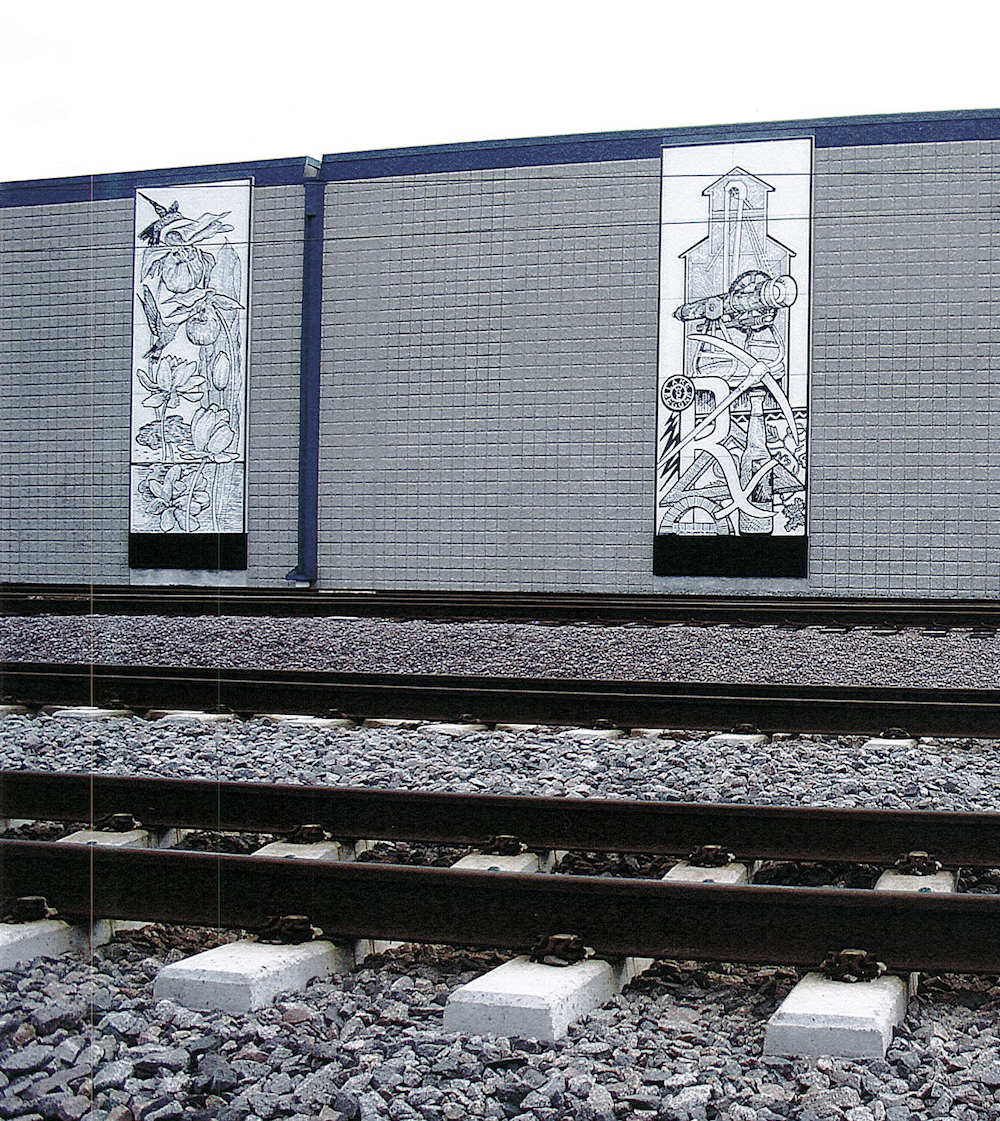
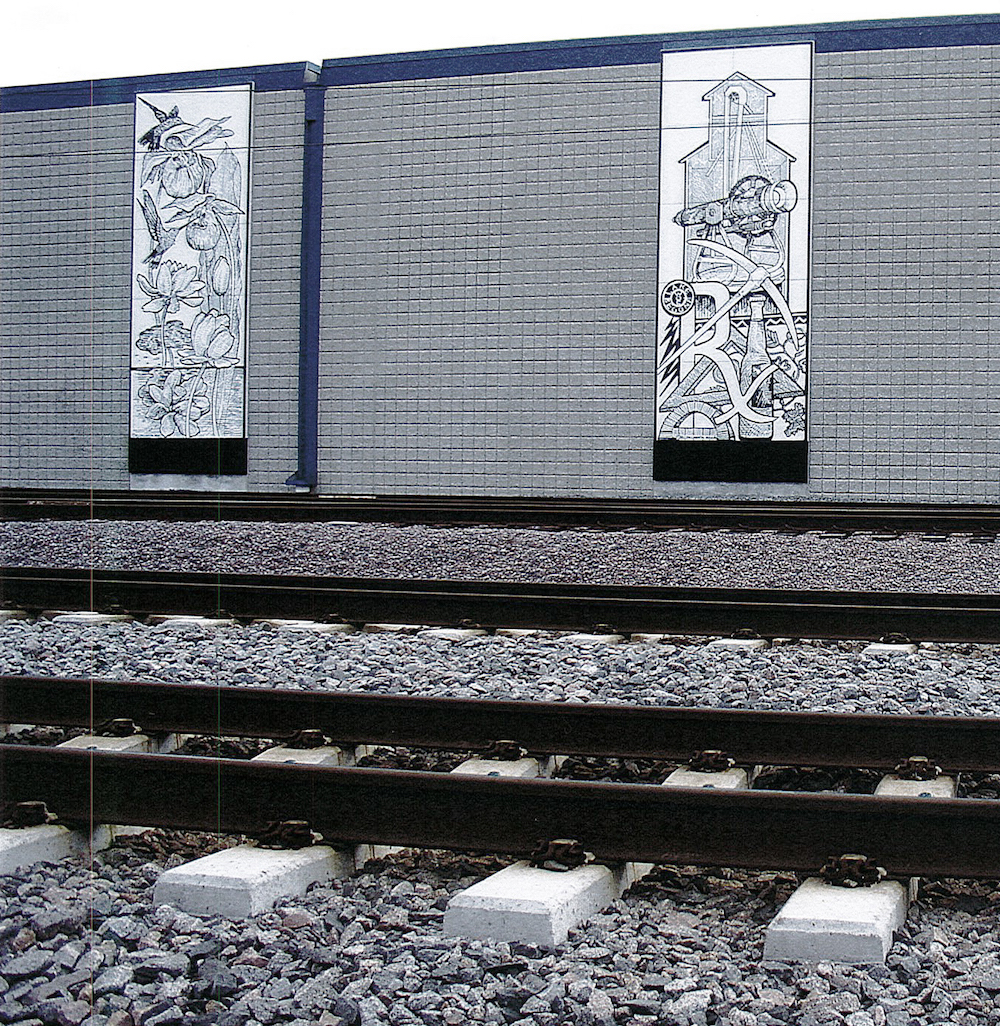
Public art upates

diff --git a/src/station-public-art.html b/src/station-public-art.html
@@ -233,15 +233,16 @@ continue to improve the accessibility of our website.</a>
 
                                                     <!-- START OF FRONT END CONTENT -->
                                                     <div style="margin-left:230px;">
-                                                        <h2>Lake Street Station – Public Art - Verburg</h2>
+                                                        <h1>Franklin Operations and Maintenance Facility Public Art</h1>
+                                                        <p><strong>Title:</strong> <em>Eight Places; Eight Panels</em></p>
 
-                                                        <p><strong>Title:</strong> <i>Wonder</i></p>
+                                                        <p><strong>Artist:</strong> Ellen Lanyon</p>
 
-                                                        <p><strong>Artist:</strong> JoAnn Verburg</p>
+                                                        <p><strong>Material: </strong>Enamaled steel and magnesium and stainless-steel hardware</p>
 
-                                                        <p><strong>Material:</strong> Colored glass panels and letter shaped mirrors</p>
+                                                        <p>Eight large Minnesota images on 8 enamaled steel panels (22' x 8' each). Each image is made of six 8' x 4' panels stacked on their horizontals. Artwork is most often seen by riders of the Blue Line between Cedar-Riverside and Franklin Stations.</p>
 
-                                                        <p>Panels of colored glass checker the enclosed structures that lead to the platform. This includes the elevator shafts, the escalator walls and the platform wind screens. In the north tower lobby, some colored panels having letters made of mirror material spelling the word "wonder."</p>
+                                                        <p>&nbsp;</p>
 
                                                         <div class="mojo-tabs">
                                                         <ul>
@@ -252,80 +253,133 @@ continue to improve the accessibility of our website.</a>
                                                         </ul>
 
                                                         <div id="tab1">
-                                                            <p><img alt="Lake Street Station Art" class="img-responsive" src="/Data/Sites/1/media/lightrail/bluelinestations/public-art/blue_line_public_art_lake_st_01.jpg" /></p>
-                                                            <p><img alt="Lake Street Station Art" class="img-responsive" src="/Data/Sites/1/media/lightrail/bluelinestations/public-art/blue_line_public_art_lake_st_03.jpg" /></p>
+                                                            <p><img alt="Franklin Operations and Maintenance Facility Public Art" class="img-responsive" src="/Data/Sites/1/media/facilities/public_art/fac_public_blue_line_o_and_m_industry.jpg" /></p>
 
-                                                            <div class="row">
-                                                                <div class="col-md-3">
-                                                                    <p><img alt="" class="img-responsive" src="/Data/Sites/1/media/lightrail/bluelinestations/public-art/blue-line-art-lake-street-wonder-1-w-sm.jpg" /></p>
-                                                                </div>
-                                                                <div class="col-md-3">
-                                                                    <p><img alt="Image of public art at the Lake Street / Midtown Station on the METRO Blue Line. " class="img-responsive" src="/Data/Sites/1/media/lightrail/bluelinestations/public-art/blue-line-art-lake-street-wonder-2-o-sm.jpg" /></p>
-                                                                </div>
+                                                            <p><img alt="Franklin Operations and Maintenance Facility Public Art" class="img-responsive" src="/Data/Sites/1/media/facilities/public_art/fac_public_blue_line_o_and_m_closeup.jpg" /></p>
 
-                                                                <div class="col-md-3">
-                                                                    <p><img alt="Image of public art at the Lake Street / Midtown Station on the METRO Blue Line. " class="img-responsive" src="/Data/Sites/1/media/lightrail/bluelinestations/public-art/blue-line-art-lake-street-wonder-3-n-sm.jpg" /></p>
-                                                                </div>
-                                                                <div class="col-md-3">
-                                                                    <p><img alt="Image of public art at the Lake Street / Midtown Station on the METRO Blue Line. " class="img-responsive" src="/Data/Sites/1/media/lightrail/bluelinestations/public-art/blue-line-art-lake-street-wonder-4-d-sm.jpg" /></p>
-                                                                </div>
-                                                            </div>
+                                                            <p><img alt="Franklin Operations and Maintenance Facility Public Art" class="img-responsive" src="/Data/Sites/1/media/facilities/public_art/fac_public_blue_line_o_and_m_panorama.jpg" /></p>
 
-                                                            <div class="row">
-                                                                <div class="col-md-6">
-                                                                    <p><img alt="Image of public art at the Lake Street / Midtown Station on the METRO Blue Line. " class="img-responsive" src="/Data/Sites/1/media/lightrail/bluelinestations/public-art/blue-line-art-lake-street-wonder-5-e-sm.jpg" /></p>
-                                                                </div>
-
-                                                                <div class="col-md-6">
-                                                                    <p><img alt="Image of public art at the Lake Street / Midtown Station on the METRO Blue Line." class="img-responsive" src="/Data/Sites/1/media/lightrail/bluelinestations/public-art/blue-line-art-lake-street-wonder-6-r-sm.jpg" /></p>
-                                                                </div>
-                                                            </div>
+                                                            <p><img alt="Franklin Operations and Maintenance Facility Public Art" class="img-responsive" src="/Data/Sites/1/media/facilities/public_art/fac_public_blue_line_o_and_m_woodpecker.jpg" /></p>
                                                         </div>
 
                                                         <div id="tab2">
-                                                            <p>Lake Street is a crossroads for many cultures that have come to Minnesota. The cool colored (blues and purples) glass panels of the north tower represent the cultures that have come from the cool northern climates. The warm colored (yellows, ambers and oranges) glass panels of the south tower represent the cultures from the warm equatorial areas and southern hemisphere. The word WONDER is present in mirror glass letters in the lower lobby of the north tower. The word WONDER is meant to be a command as well as noun. A viewer will notice that the N in WONDER is on the north wall of the tower, and like-wise, the E is on the east wall, and the W is on the west wall. Mirrored letters spelling Wonder also reference the memories of the Wonderland Amusement Park which was located nearby. &nbsp;</p>
+                                                            <p>The eight panels of this public art piece depict different aspects of Minnesota</p>
 
-                                                            <p><img alt="Lake Street Station Art" class="img-responsive" src="/Data/Sites/1/media/lightrail/bluelinestations/public-art/blue_line_public_art_lake_st_02.jpg" /></p>
-                                                        </div>
+                                                            <p>INDUSTRY: the flour mills and granaries, the medical community, the brewery, mining, textiles and builders.</p>
 
-                                                        <div id="tab3">
-                                                            <p>JoAnn Verburg&nbsp;is an American photographer who uses large format cameras to shoot life-size portraits, still lifes and landscapes. Verburg’s images create narrative sequences that generate a state of prolonged experience; not a state of motion, but, rather, how we view images, as in mirroring the eye’s movement during the act of looking. &nbsp;</p>
+                                                            <p>ARTS: Theater, dance, visual arts, architecture, music, literature, etc.</p>
 
-                                                            <p>She made a name for herself in the late 1970s with “The Rephotographic Survey Project,” a collaborative exhibition and book that recreated more than 120 images of largely uninhabited Western landscapes in the 19th century.&nbsp;Using cameras, lenses and film that approximated the technology of their 19th-century predecessors, they waited for weather conditions that replicated the light in the original photographs, then rephotographed each place. The resulting then-and-now comparisons showed what the passage of time had done to those vistas. Surprisingly, what endured — the same trees, boulders and riverbeds — was often just as poignant as the changes to the landscape over time.</p>
+                                                            <p>LADY SLIPPER:&nbsp; the state flower.</p>
 
-                                                            <p>Verburg studied at&nbsp;Ohio Wesleyan University, earning her Bachelor’s of Arts in Sociology. She earned her Masters of Fine Art in Photography from the Rochester Institute of Photography, New York. Verburg moved to Minnesota in 1981 where she was an artist-in-residence at the&nbsp;Minneapolis College of Art and Design. She splits her time between&nbsp;St. Paul, Minnesota&nbsp;and&nbsp;Spoleto, Italy.</p>
+                                                            <p>WALLEYE: The state fish.</p>
+
+                                                            <p>COMMON LOON: The state bird.</p>
+
+                                                            <p>FORESTRY: Tree imagery with bird and insect.</p>
+
+                                                            <p>SPORTS: A myriad of sports equipment representing the many sports played in Minnesota.</p>
+
+                                                            <p>INSTITUTIONS: The state capital, museums and historic places</p>
 
                                                             <div class="row">
                                                                 <div class="col-md-6">
-                                                                    <p><img alt="Lake Street Station Art" class="img-responsive" src="/Data/Sites/1/media/lightrail/bluelinestations/public-art/blue_line_public_art_lake_st_hole_to_china-_v2.jpg" /></p>
-
-                                                                    <p><i>Heroes (Hole to China)&nbsp;</i></p>
+                                                                    <p><img alt="Franklin Operations and Maintenance Facilities Art" class="img-responsive" src="/Data/Sites/1/media/facilities/public_art/fac_public_blue_line_o_and_m_web-architecture.jpg" /></p>
                                                                 </div>
 
                                                                 <div class="col-md-6">
-                                                                    <p><i><img alt="Lake Street Station Art" class="img-responsive" src="/Data/Sites/1/media/lightrail/bluelinestations/public-art/blue_line_public_art_lake_st_antonietta_in_light_of_the_duom.jpg" /></i></p>
+                                                                    <p><img alt="Franklin Operations and Maintenance Facilities Art" class="img-responsive" src="/Data/Sites/1/media/facilities/public_art/fac_public_blue_line_o_and_m_web-industry.jpg" /></p>
+                                                                </div>
+                                                            </div>
+                                                            <div class="row">
+                                                                <div class="col-md-6">
+                                                                    <p><img alt="Franklin Operations and Maintenance Facilities Art" class="img-responsive" src="/Data/Sites/1/media/facilities/public_art/fac_public_blue_line_o_and_m_web-sports.jpg" /></p>
+                                                                </div>
 
-                                                                    <p><i>In the Light of the Doum</i></p>
+                                                                <div class="col-md-6">
+                                                                    <p><img alt="Franklin Operations and Maintenance Facilities Art" class="img-responsive" src="/Data/Sites/1/media/facilities/public_art/fac_public_blue_line_o_and_m_web-state-bird.jpg" /></p>
+                                                                </div>
+                                                            </div>
+                                                            <div class="row">
+                                                                <div class="col-md-6">
+                                                                    <p><img alt="Franklin Operations and Maintenance Facilities Art" class="img-responsive" src="/Data/Sites/1/media/facilities/public_art/fac_public_blue_line_o_and_m_web-state-fish.jpg" /></p>
+                                                                </div>
+
+                                                                <div class="col-md-6">
+                                                                    <p><img alt="Franklin Operations and Maintenance Facilities Art" class="img-responsive" src="/Data/Sites/1/media/facilities/public_art/fac_public_blue_line_o_and_m_web-state-flowers.jpg" /></p>
+                                                                </div>
+                                                            </div>
+                                                            <div class="row">
+                                                                <div class="col-md-6">
+                                                                    <p><img alt="Franklin Operations and Maintenance Facilities Art" class="img-responsive" src="/Data/Sites/1/media/facilities/public_art/fac_public_blue_line_o_and_m_web-state-tree.jpg" /></p>
+                                                                </div>
+                                                                <div class="col-md-6">
+                                                                    <p><img alt="Franklin Operations and Maintenance Facilities Art" class="img-responsive" src="/Data/Sites/1/media/facilities/public_art/fac_public_blue_line_o_and_m_Web-The-Arts.jpg" /></p>
+                                                                </div>
+                                                            </div>
+                                                        </div>
+
+                                                        <div id="tab3">
+                                                            <div class="row">
+                                                                <div class="col-md-6">
+                                                                    <p>Ellen Lanyon (1926 – 2013) was a printmaker who began her career in Chicago, and moved to New York in the 1970s where she became a member of the Heresies magazine collective.</p>
+
+                                                                    <p>She has been described as a “naturalist and fantasist, Audubon and Pygmalion in female form”. Her “dreamscapes” often combine animal, vegetable, and floral motifs into fantastical and semiautobiographical compositions that reflect her private mythology. Her frequent&nbsp;depiction of everyday objects&nbsp;with simultaneously domestic and sinister connotations—including scissors, sewing needles, and cutlery, objects that evoke Victorian Americana as well as Surrealist dream objects—has elicited comparisons between her work and Metaphysical Painting of the 1910s and 1920s.</p>
+
+                                                                    <p>Lanyon has had over seventy-five solo exhibitions, eleven museum exhibitions and three major traveling retrospectives. Her work is included in the collections of major museums throughout the United States, including the Art Institute of Chicago, the Brooklyn Museum, Museum of Contemporary Art, Chicago, the Metropolitan Museum of Art, and Museum of Modern Art, and the Walker Art Center.</p>
+
+                                                                    <p>&nbsp;</p>
+                                                                </div>
+
+                                                                <div class="col-md-6">
+                                                                    <p><img alt="Franlink Operations and Maintenance Facility art" class="img-responsive" src="/Data/Sites/1/media/facilities/public_art/fac_public_blue_line_o_and_m_ellen.jpg" /></p>
+
+                                                                    <p>Terrazzo floor at Minneapolis/St. Paul International Airport by Mykleburst and Sears</p>
                                                                 </div>
                                                             </div>
                                                         </div>
 
                                                         <div id="tab4">
-                                                            <p>After 13 years, WONDER was inventoried to see how many of the original colored glass panels still existed and which needed to be recreated. To do this, the existing colored panels had to be compared to the original glass panel documents. It was discovered that 52 of the original glass panels had been broken and replaced with plain glass panels. Below are some of the images from this process.</p>
+                                                            <h2>The History of Public Art at Metro Transit</h2>
+
+                                                            <p>The first public art piece commissioned by Metro Transit was a painted metal sculpture by Marcia McEchron. The work was designed, fabricated and installed along the top of a waiting shelter in downtown Saint Paul on Cedar Street and 4th Street in 1995. The sculpture depicted images of Minnesota trees, animals and events.</p>
+
+                                                            <p><img alt="Franlink Operations and Maintenance Facility art" class="img-responsive" src="/Data/Sites/1/media/facilities/public_art/fac_public_blue_line_o_and_m_shelter.jpg" /></p>
+
+                                                            <p>Over the next several years, Metro Transit dabbled a few more times with public art, mostly supporting the City of Minneapolis collection by providing a location for work owned by the City.</p>
+
+                                                            <p>Then in 2000-2001, Metro Transit began planning the largest public art project in Minnesota, the art along the Hiawatha Line. Now known as the METRO Blue Line, the Hiawatha Line was the first light rail line in Minnesota and included public art integrated into each of the eighteen original stations. To accomplish this, Metro Transit created design teams for each station comprised of architects and artists. With preliminary designs in hand, Joan Mondale, wife of former Vice President Walter Mondale and nationally recognized arts advocate, joined the cause along with David Allen, Public Art Administrator for the Hiawatha Line. More art and more artists were added to the project, resulting in an initial collection of forty-eight artworks created by sixteen artists. Eventually, one more station was added bringing the total of public art pieces to fifty.</p>
+
+                                                            <p><img alt="Franlink Operations and Maintenance Facility art" class="img-responsive" src="/Data/Sites/1/media/facilities/public_art/fac_public_blue_line_o_and_m_panorama-3.jpg" /></p>
+
+                                                            <p>The Blue Line effort was an early example, in Minnesota, of large-scale placemaking.  The design teams met several times with the surrounding communities to create designs that complimented and reflected the neighborhoods surrounding the stations.  Artists were fully integrated into the design teams and there were few limitations, other than budget and safety, as to what the artists could develop. June 26, 2004, the Blue Line was opened from downtown Minneapolis to the Ft. Snelling Station and there was a celebration of the art at each station. December 4, 2004, the rest of the line to the Mall of America was completed and opened with much fanfare.</p>
+
+                                                            <p>In 2009, with the development of Northstar Commuter Rail Line from Minneapolis to Big Lake, two more pieces were created, one at the Minneapolis terminal at Target Field and one at the Big Lake terminal. The work at the Target Field terminal was developed as part of the overall public art program for Target Field and was administered by Mary Altman, Public Arts Administrator for the City of Minneapolis. The work at Big Lake, a series of flying Canada geese, was administered by consultant Richardson, Richter & Associates.</p>
 
                                                             <div class="row">
-                                                            <div class="col-md-12">
-                                                            <p><img alt="Lake Street Station Art" class="img-responsive" src="/Data/Sites/1/media/lightrail/bluelinestations/public-art/blue_line_public_art_lake_st_original_drawing.jpg" /></p>
+                                                                <div class="col-md-6">
+                                                                    <p>
+                                                                        <img alt="Franlink Operations and Maintenance Facility art" class="img-responsive" src="/Data/Sites/1/media/facilities/public_art/fac_public_blue_line_o_and_m_3.jpg" />
+                                                                    </p>
+                                                                </div>
+                                                                <div class="col-md-6">
+                                                                    <p>
+                                                                        <img alt="Franlink Operations and Maintenance Facility art" class="img-responsive" src="/Data/Sites/1/media/facilities/public_art/fac_public_blue_line_o_and_m_2.jpg" />
+                                                                    </p>
+                                                                </div>
+                                                            </div>
 
-                                                            <p>Original concept drawing</p>
+                                                            <p>In 2009, there were also two new transit centers developed in downtown Saint Paul and on Chicago Avenue in Minneapolis. Each of these transit centers received a public art piece. The Smith Avenue Ramp in Saint Paul became home to a multi-media piece by Dick Huss, while Chicago Lake Transit Center became home to two ceramic tile murals by Ta-coumba Aiken.</p>
+                                                            <p>As the public art at the new transit centers were being installed, Metro Transit was already planning for public art to be integrated into the design of a second light rail line, the Green Line. Instead of developing design teams for each station, all eighteen of the Green Line stations were designed by one firm that then worked with the different artists to integrate their work. Under the direction of Alicia Vap, Metro Transit Stations and Streetscape Design Lead, seven artists were chosen, with most of the artists chosen to create art for as many as three stations. Many community meetings, coordinated by Robin Caufman, Community Engagement Manager, were held to capture the character of the neighborhoods around the stations. Because of this new design process, the works on the Green Line are more integrated into the structure of the stations and more attention was given to maintenance and sustainability.</p>
 
-                                                            <p><img alt="Lake Street Station Art" class="img-responsive" src="/Data/Sites/1/media/lightrail/bluelinestations/public-art/blue_line_public_art_lake_st_04.jpg" /></p>
+                                                            <p>
+                                                                <img alt="Franlink Operations and Maintenance Facility art" class="img-responsive" src="/Data/Sites/1/media/facilities/public_art/fac_public_blue_line_o_and_m_1.jpg" />
+                                                            </p>
 
-                                                            <p>Original glass panel specification sheet with hand-written notes about which colored panels should go where.&nbsp;</p>
+                                                            <p>Nearly ten years to the day after the opening of the Blue Line, the Green Line was opened and Metro Transit was home to one of the largest collections of public art in Minnesota.</p>
 
-                                                            <p><img alt="Lake Street Station Art" class="img-responsive" src="/Data/Sites/1/media/lightrail/bluelinestations/public-art/blue_line_public_art_lake_st_nt_slww.jpg" /></p>
+                                                            <p>In the meantime, some artwork on the Blue Line had begun to deteriorate, and Metro Transit did not have a Public Art Administrator overseeing the care of the collection.  Jill Hentges, Community Outreach Coordinator, took an interest in the collection and informally filled this role for several years.   In 2013, under Jill Hentges’ leadership, Metro Transit began working with conservator Kristin Cheronis to look at long term maintenance for the entire collection and in 2014 created the first annual survey of the collection. To ensure proper care of this significant asset, Metro Transit’s General Manager Brian Lamb and Engineering and Facilities Director Marilyn Porter created the position of Public Art Administrator in 2016.</p>
 
-                                                            <p>Adjusted panel drawing indicating color, panel size and which are missing (in red).</p>
+                                                            <p>Later in 2016, Metro Transit hired Mark Granlund to be Public Art Administrator. His task was to create a program that addressed maintenance of the existing collection, develop guidelines for the commissioning of new work, and develop procedures for temporary art and performances.</p>
                                                         </div>
 
                                                     </div>
